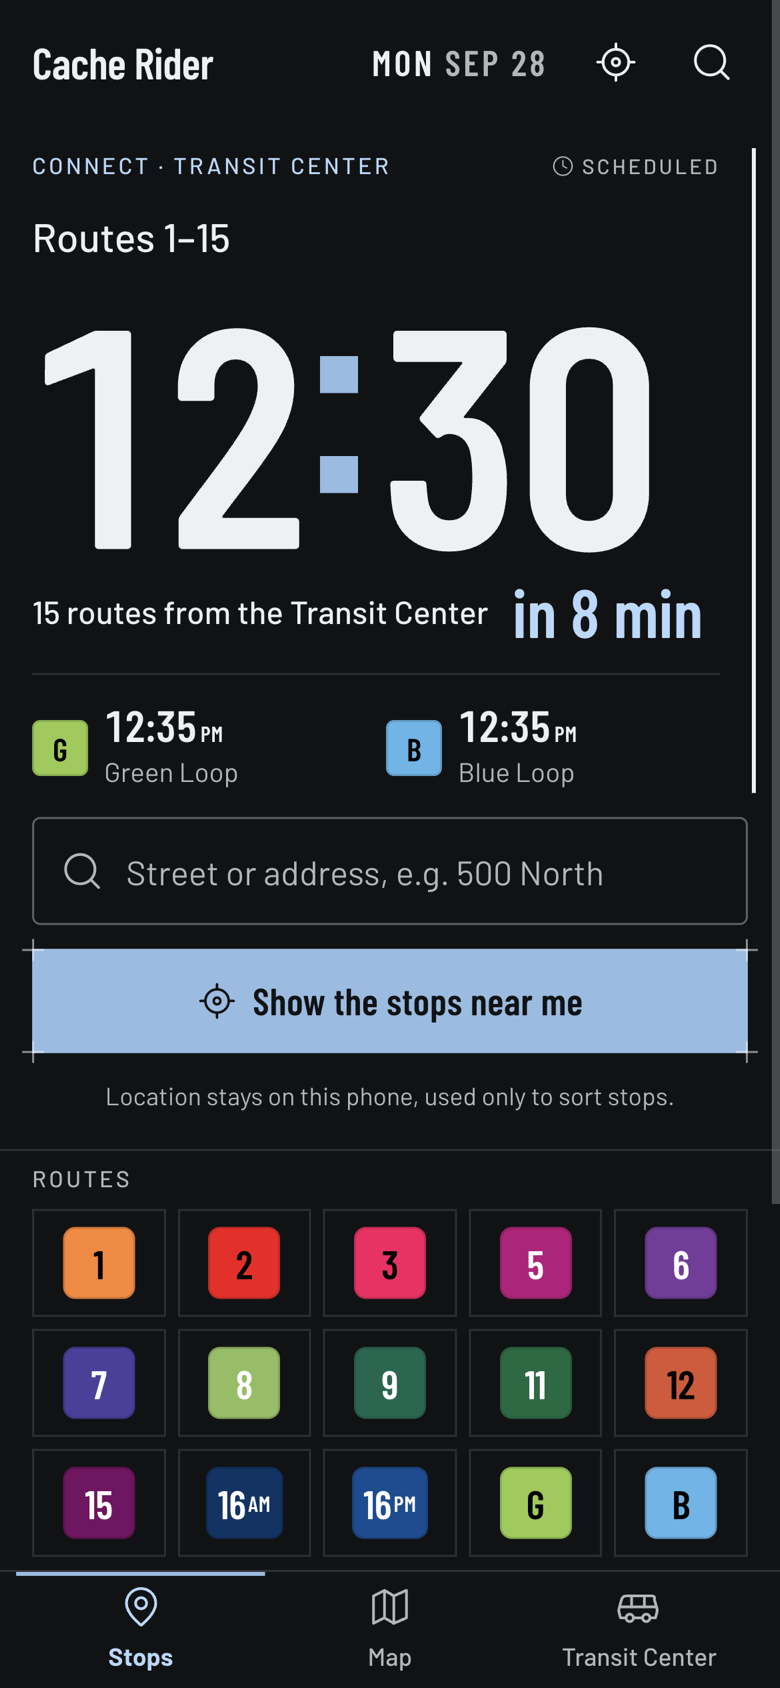
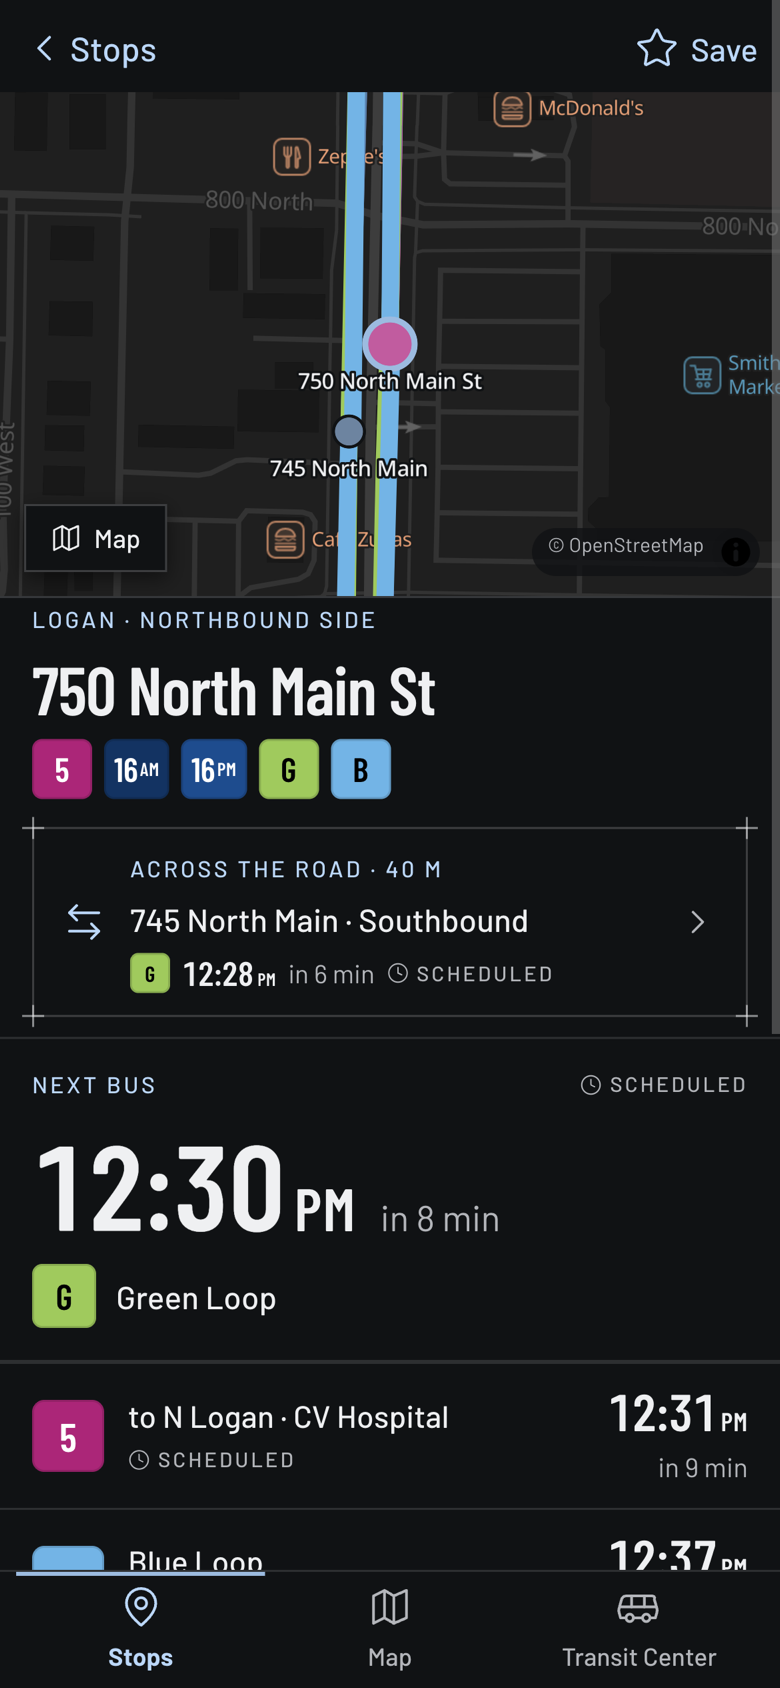
README and release notes: the phone shows a stop page

diff --git a/README.md b/README.md
@@ -17,7 +17,7 @@ to the [Headway](https://github.com/sybenx/headway) Pebble watchface.
   </picture>
   <picture>
     <source media="(prefers-color-scheme: dark)" srcset="docs/screenshots/phone-dark.png">
-    <img src="docs/screenshots/phone-light.png" width="21.5%" alt="Cache Rider on a phone: the next Transit Center departure large, the Green and Blue Loops beneath, and every route as a button">
+    <img src="docs/screenshots/phone-light.png" width="21.5%" alt="Cache Rider on a phone: a stop on North Main, its map, the stop across the road, and the next bus, the Green Loop at 12:30 in 8 minutes">
   </picture>
 </p>
 
